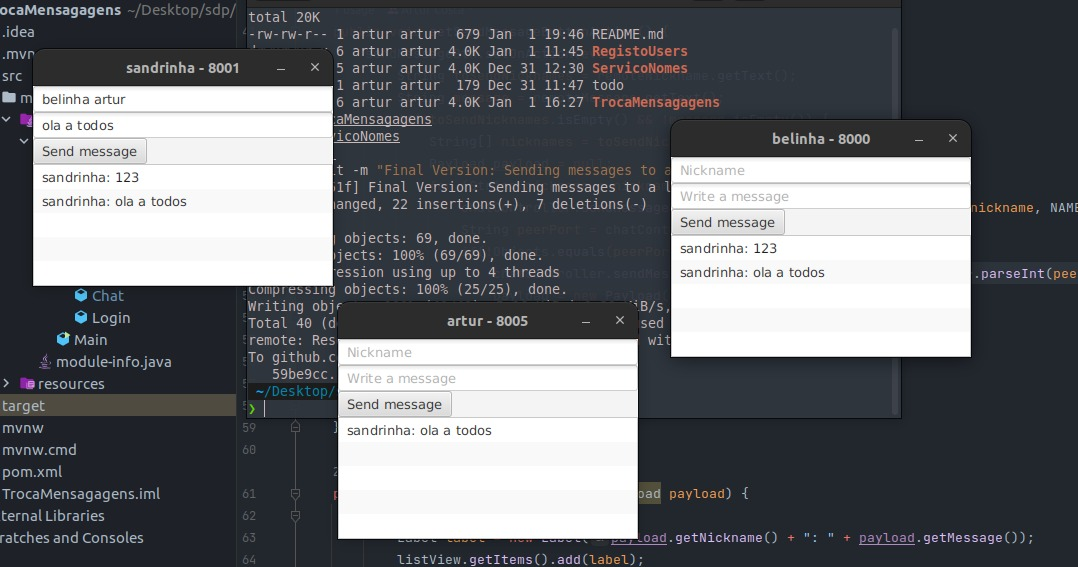
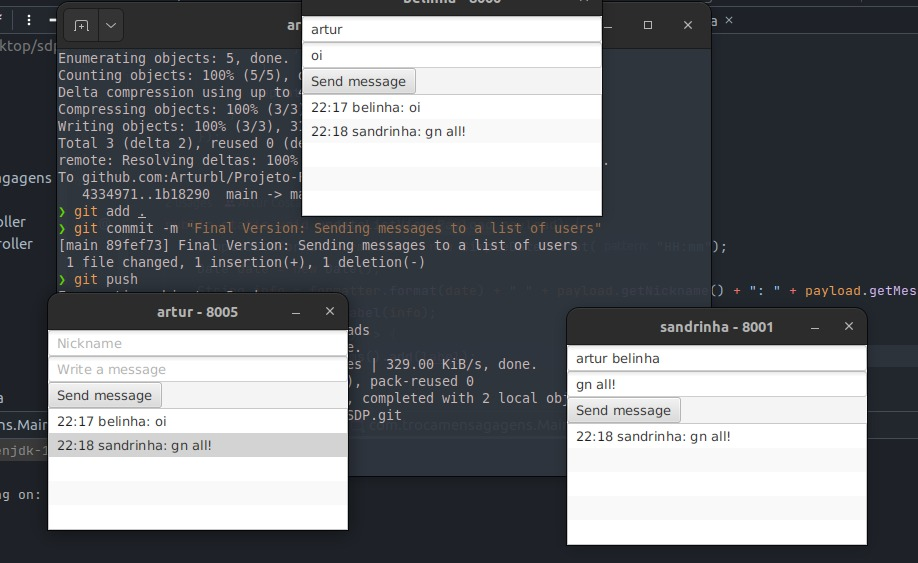
Final Version: Sending messages to a list of users and time on chat

diff --git a/TrocaMensagagens/src/main/java/com/trocamensagagens/view/Chat.java b/TrocaMensagagens/src/main/java/com/trocamensagagens/view/Chat.java
@@ -10,6 +10,8 @@ import javafx.scene.control.ListView;
 import javafx.scene.control.TextField;
 import javafx.scene.layout.VBox;
 
+import java.text.SimpleDateFormat;
+import java.util.Date;
 import java.util.Objects;
 
 public class Chat extends Parent {
@@ -59,8 +61,11 @@ public class Chat extends Parent {
     }
 
     public static void updateListView(Payload payload) {
+        SimpleDateFormat formatter = new SimpleDateFormat("HH:mm");
+        Date date = new Date();
+        String info = formatter.format(date) + " " + payload.getNickname() + ": " + payload.getMessage();
+        Label label = new Label(info);
         Platform.runLater(() -> {
-            Label label = new Label(payload.getNickname() + ": " + payload.getMessage());
             listView.getItems().add(label);
         });
     }
